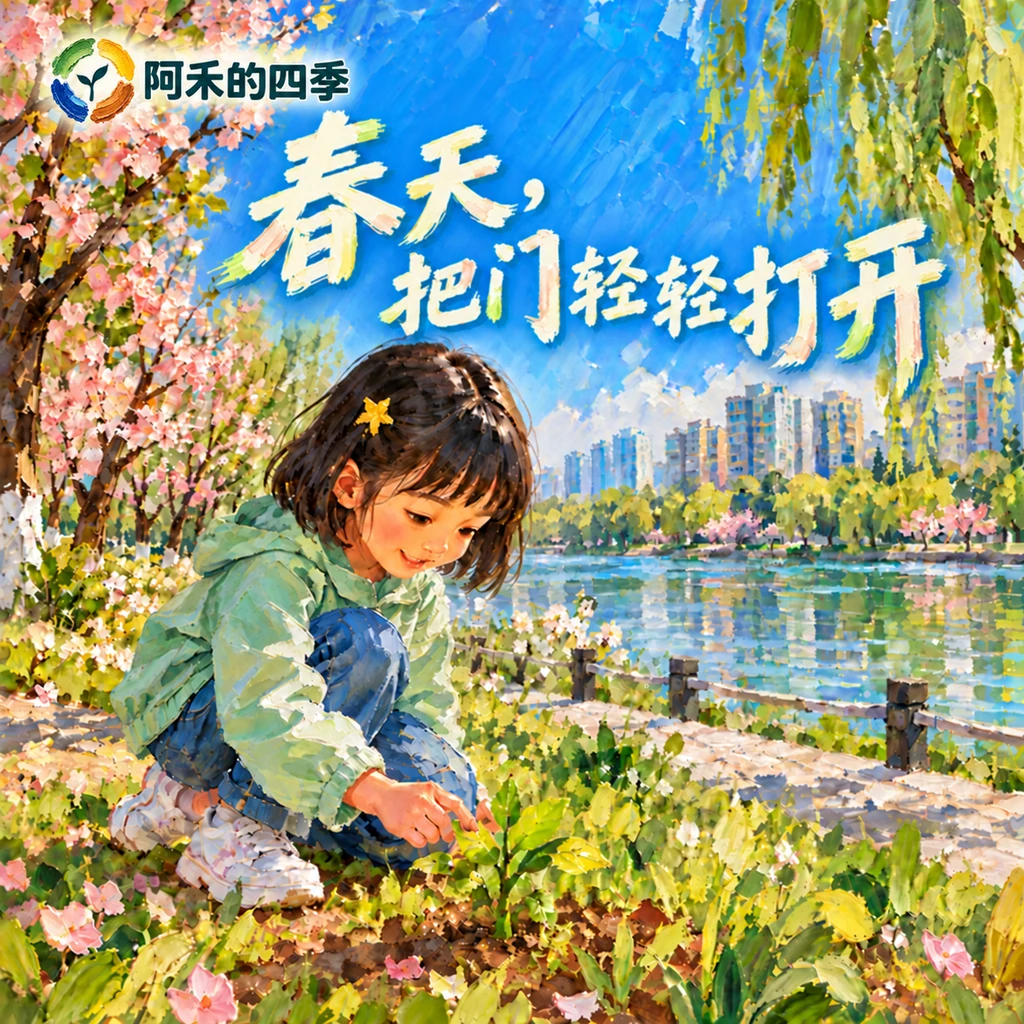
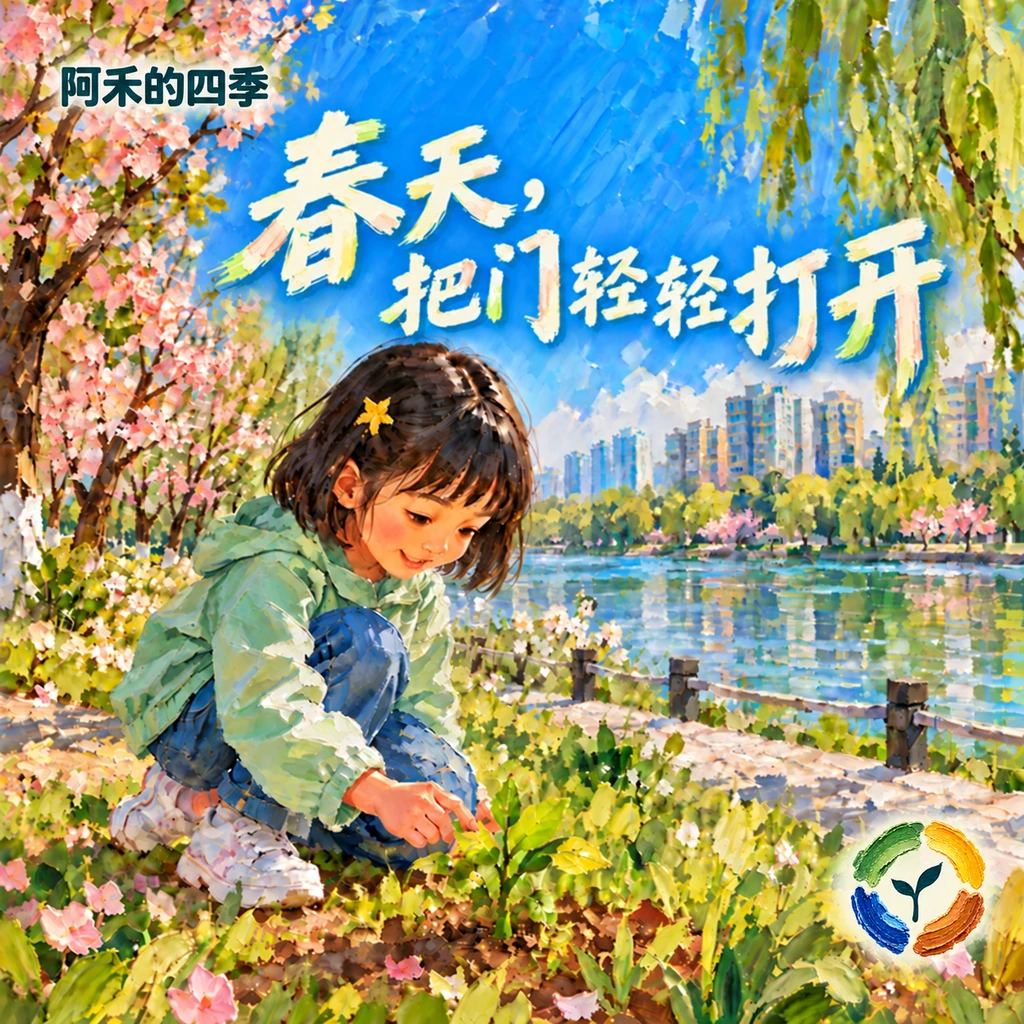
Separate season cover wordmark and emblem

diff --git a/docs/seasons-picture-books.md b/docs/seasons-picture-books.md
@@ -8,7 +8,7 @@
 
 ## 字体设计
 
-- **封面系列标识**：四季颜色的厚涂开环围住一株禾苗，组成固定图形；“阿禾的四季”使用有设计感的现代几何黑体，深青字色，安放在四张封面左上角，远离主书名。标识图形与字标在缩略图中仍能辨认，四本共用同一形态、位置与尺度。
+- **封面系列标识**：“阿禾的四季”使用有设计感的现代几何黑体，深青字色，独立安放在四张封面左上角，远离主书名。四季颜色的厚涂开环与禾苗组成的图标单独放在右下角。字标与图标在缩略图中仍能辨认，四本共用同一形态、位置与尺度。
 - **封面主书名**：逐字定制的暖白色油画厚涂展示字，笔势与季节光线相连，字距、大小和基线有控制的变化。它与左上角规整黑体标识形成明确主次；四本都已核对中文用字。
 - **正文首页（第 1 跨页）**：我的明确建议是让诗句位于插画下方的暖白留白区，避免压住跨页画面。两行居中排，采用沉稳的思源黑体或同类现代黑体，最大字号 36px、字重约 760、行高约 1.48；第一行用深青色强调，第二行回到正文墨色。行宽不超过 900px，并保留至少 30px 顶部呼吸空间。它以字形类别呼应左上角系列标识，以字号和留白承接封面的表现力。第 2—8 跨页收至约 25px、较轻字重，统一阅读节奏。
 
